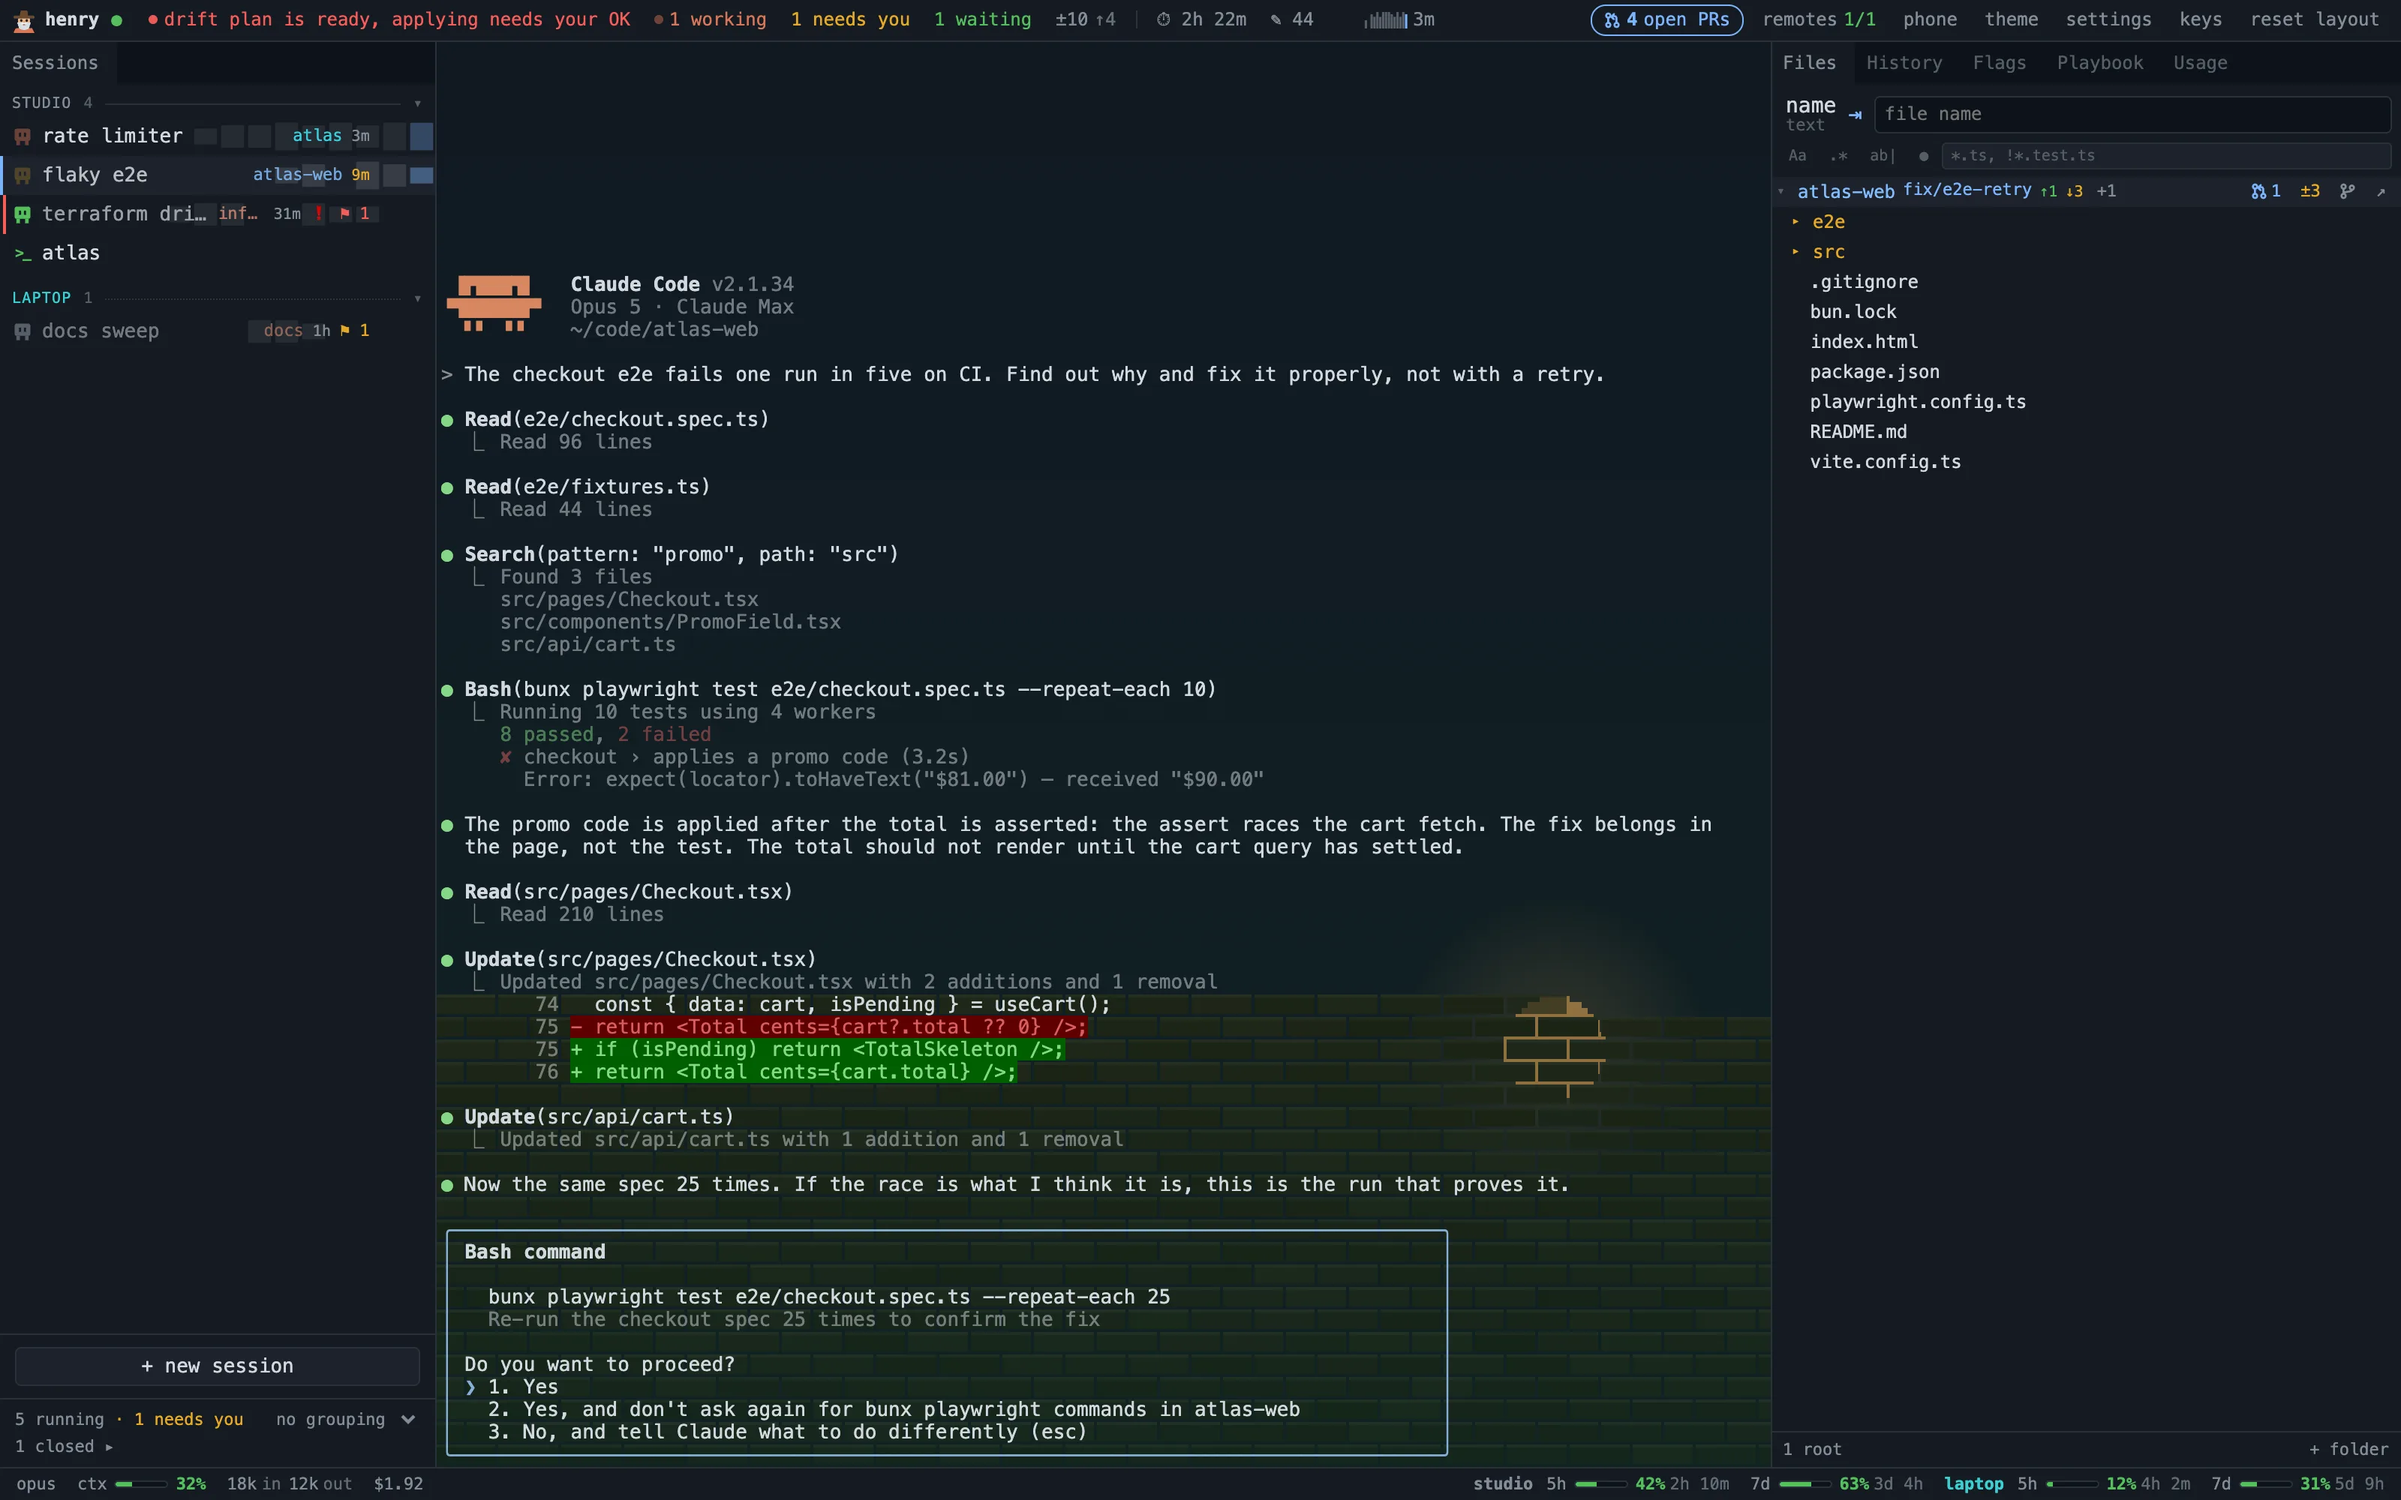
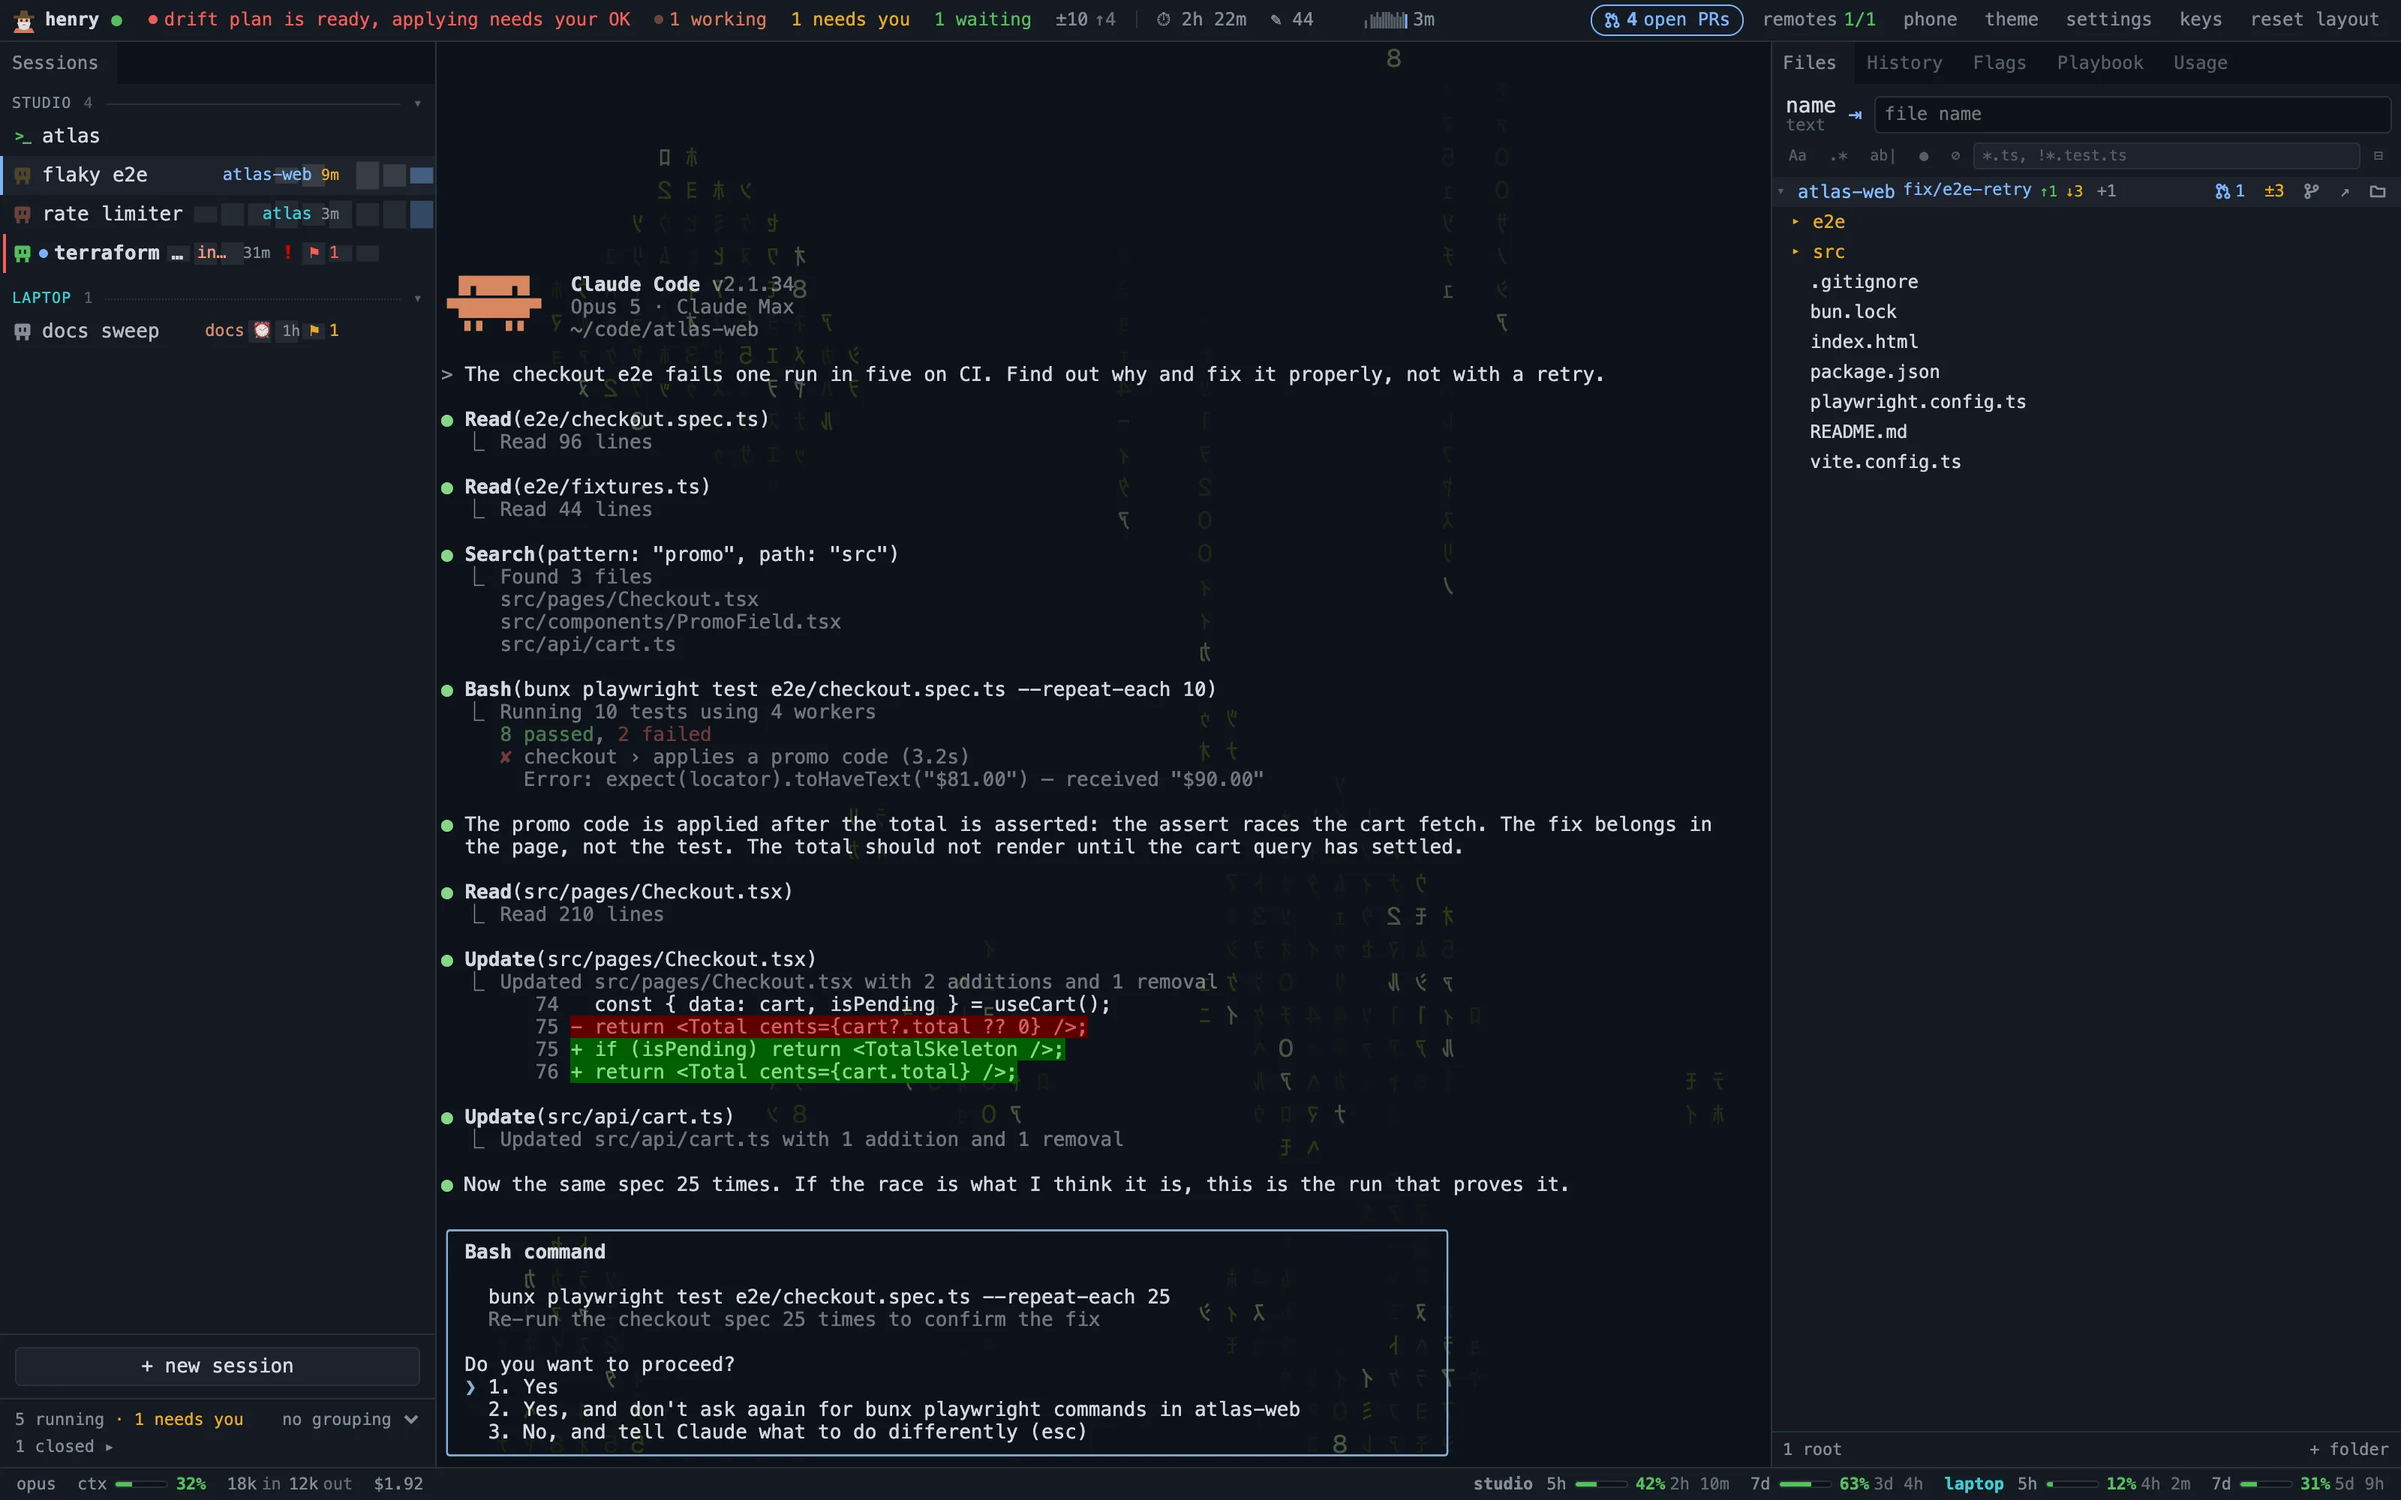
The README's screenshots are retaken with the life backdrop behind the terminal, and scripts/screenshots.ts picks rail rows by title, so a change in rail order no longer photographs the wrong session

diff --git a/scripts/screenshots.ts b/scripts/screenshots.ts
@@ -158,7 +158,6 @@ async function clip(name: string, seconds: number, prep: () => Promise<void>) {
   console.log("wrote", path.relative(root, file));
 }
 
-const railClick = (i: number) => page.evaluate((n) => document.querySelectorAll<HTMLElement>(".rail-item")[n]?.click(), i);
 
 /** The default layout, adjusted the way a person would: no Voice pane, a rail wide enough for
  * titles, tools wide enough for the tree, and the session's src folder open. */
@@ -197,7 +196,7 @@ try {
   if (want("overview")) await shot("overview");
   // The session that asked for you, its alarm flag open, every session's flags listed.
   if (want("flags")) await shot("flags", async () => {
-    await railClick(2);
+    await railPick("terraform");
     await sleep(300);
     await clickTab("Flags");
     await sleep(300);
@@ -210,7 +209,7 @@ try {
   });
   if (want("playbook")) await shot("playbook", () => clickTab("Playbook"));
   // Blocked on a permission prompt.
-  if (want("needs")) await shot("needs", () => railClick(1));
+  if (want("needs")) await shot("needs", () => railPick("flaky e2e"));
   if (want("diff")) await shot("diff", () => page.evaluate(() => document.querySelector<HTMLElement>(".fr-diff")?.click()));
   // The backdrops. Life on the session whose window is fullest, so the board is busy and amber.
   if (want("backdrop-life")) await shot("backdrop-life", async () => {

diff --git a/changelog/2026-10-27.md b/changelog/2026-10-27.md
@@ -3,4 +3,4 @@
 - The pane backdrop has a new default scene, `life`: Conway's Life in dim mirrored katakana, fed by Matrix rain that keeps the board as busy as the context window is full (green → amber → red), a glider fired in from an edge on every tool call, a faster tempo while working, and a `/compact` that pours every living cell off the bottom; the sun-and-wall sky stays as the `sky` scene in the theme menu
 - A third backdrop scene, `loom`, weaves the session as cloth: a thread across the pane per prompt in a new colour, and a stroke per tool call by kind (a long warp line for reading, a knot for an edit, a zig-zag for a shell command, a fan of filaments for an agent), turbulent past 70%, fraying past 90%, with each compaction rolled into a braid along the bottom; the cloth floats like a sample under a microscope, its threads at three depths in and out of focus drifting at their own speeds among motes, bending in a slow current and pushed aside by a ripple from each tool call and a swell sized by the context it added, while older turns recede so the current one stands out; a reload replays the session's history into the same cloth
 - Two theme choices for every backdrop scene: `focus` (sharp, soft, hazy, dream) blurs it from lines to a wash of colour, and `glow` (off, soft, neon; dark shades only) blooms it so each line glows in its own colour
-- The README shows the backdrops: life and loom side by side and a clip of the loom drifting, shot from the demo by `scripts/screenshots.ts`, whose rate limiter session now has three turns of tool calls for the loom to weave
+- The README shows the backdrops: life and loom side by side and a clip of the loom drifting, shot from the demo by `scripts/screenshots.ts`, whose rate limiter session now has three turns of tool calls for the loom to weave; the older screenshots are retaken with the life backdrop behind them, and the script picks rail rows by title rather than position
